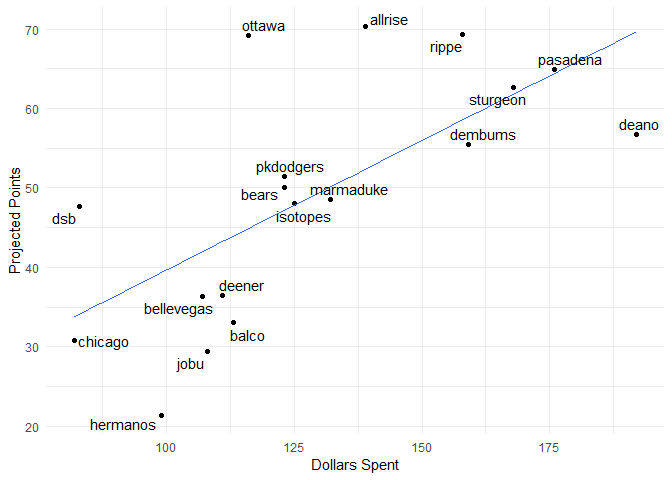
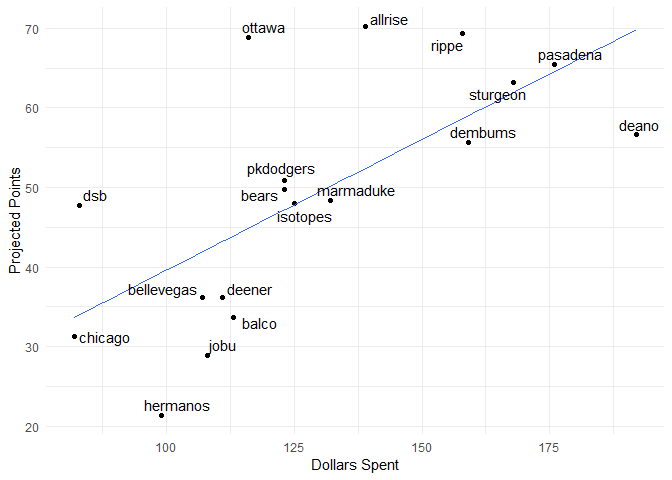
cleaned up team writeouts

diff --git a/draftguide.md b/draftguide.md
@@ -3,25 +3,27 @@ Fantasy 2019
 
 #### Current Standings
 
-    ##     team_name spent left picks.left total_points hit.points pitch.points
-    ## 1     allrise   139  121         15         70.3       23.6         46.7
-    ## 2       rippe   158  102         15         69.3       14.4         54.9
-    ## 3      ottawa   116  144         15         69.2       18.1         51.1
-    ## 4    pasadena   176   84         15         64.9       41.3         23.6
-    ## 5    sturgeon   168   92         15         62.6       47.7         14.9
-    ## 6       deano   192   68         15         56.7       21.6         35.1
-    ## 7     dembums   159  101         14         55.5       21.4         34.1
-    ## 8   pkdodgers   123  137         15         51.4       18.8         32.6
-    ## 9       bears   123  137         15         50.0       17.5         32.5
-    ## 10  marmaduke   132  128         15         48.5       24.1         24.4
-    ## 11   isotopes   125  135         15         48.0       27.9         20.1
-    ## 12        dsb    83  177         17         47.7       10.2         37.5
-    ## 13     deener   111  149         15         36.5        8.7         27.8
-    ## 14 bellevegas   107  153         15         36.3        8.9         27.4
-    ## 15      balco   113  147         17         33.0       13.9         19.1
-    ## 16    chicago    82  178         16         30.8       12.9         17.9
-    ## 17       jobu   108  152         15         29.4       14.5         14.9
-    ## 18   hermanos    99  161         15         21.4        6.9         14.5
+    ## # A tibble: 18 x 7
+    ##    team_name  spent  left picks.left total_points hit.points pitch.points
+    ##    <chr>      <dbl> <dbl>      <int>        <dbl>      <dbl>        <dbl>
+    ##  1 allrise      139   121         15         70.2       23.8         46.4
+    ##  2 rippe        158   102         15         69.3       14.7         54.6
+    ##  3 ottawa       116   144         15         68.9       18.1         50.8
+    ##  4 pasadena     176    84         15         65.5       41.5         24  
+    ##  5 sturgeon     168    92         15         63.2       47.8         15.4
+    ##  6 deano        192    68         15         56.6       21.7         34.9
+    ##  7 dembums      159   101         14         55.6       21.8         33.8
+    ##  8 pkdodgers    123   137         15         50.9       18.8         32.1
+    ##  9 bears        123   137         15         49.8       17.6         32.2
+    ## 10 marmaduke    132   128         15         48.4       24.3         24.1
+    ## 11 isotopes     125   135         15         48         28.3         19.7
+    ## 12 dsb           83   177         17         47.7       10.4         37.3
+    ## 13 bellevegas   107   153         15         36.2        9           27.2
+    ## 14 deener       111   149         15         36.2        8.8         27.4
+    ## 15 balco        113   147         17         33.6       14.1         19.5
+    ## 16 chicago       82   178         16         31.3       13.1         18.2
+    ## 17 jobu         108   152         15         28.9       14.5         14.4
+    ## 18 hermanos      99   161         15         21.4        7.1         14.3
 
 #### Top Remaining Pitchers
 
@@ -78,23 +80,23 @@ Fantasy 2019
     ## # A tibble: 18 x 4
     ##    rowname    total_points value   delta
     ##    <chr>             <dbl> <dbl>   <dbl>
-    ##  1 ottawa             69.2  44.9  24.3  
-    ##  2 allrise            70.3  52.4  17.9  
-    ##  3 dsb                47.7  34.1  13.6  
-    ##  4 rippe              69.3  58.6  10.7  
-    ##  5 pkdodgers          51.4  47.2   4.24 
-    ##  6 bears              50    47.2   2.84 
-    ##  7 sturgeon           62.6  61.8   0.758
-    ##  8 pasadena           64.9  64.5   0.448
-    ##  9 isotopes           48    47.8   0.188
-    ## 10 marmaduke          48.5  50.1  -1.60 
-    ## 11 chicago            30.8  33.8  -2.98 
-    ## 12 dembums            55.5  58.9  -3.41 
-    ## 13 bellevegas         36.3  41.9  -5.64 
-    ## 14 deener             36.5  43.2  -6.74 
-    ## 15 balco              33    43.9 -10.9  
-    ## 16 jobu               29.4  42.3 -12.9  
-    ## 17 deano              56.7  69.7 -13.0  
+    ##  1 ottawa             68.9  44.9  24.0  
+    ##  2 allrise            70.2  52.4  17.8  
+    ##  3 dsb                47.7  34.0  13.7  
+    ##  4 rippe              69.3  58.7  10.6  
+    ##  5 pkdodgers          50.9  47.2   3.74 
+    ##  6 bears              49.8  47.2   2.64 
+    ##  7 sturgeon           63.2  61.9   1.25 
+    ##  8 pasadena           65.5  64.6   0.922
+    ##  9 isotopes           48    47.8   0.185
+    ## 10 marmaduke          48.4  50.1  -1.72 
+    ## 11 chicago            31.3  33.7  -2.38 
+    ## 12 dembums            55.6  59.0  -3.39 
+    ## 13 bellevegas         36.2  41.9  -5.70 
+    ## 14 deener             36.2  43.2  -7.01 
+    ## 15 balco              33.6  43.9 -10.3  
+    ## 16 deano              56.6  69.8 -13.2  
+    ## 17 jobu               28.9  42.2 -13.3  
     ## 18 hermanos           21.4  39.3 -17.9
 
 #### Remaining Picks vs. projected points
